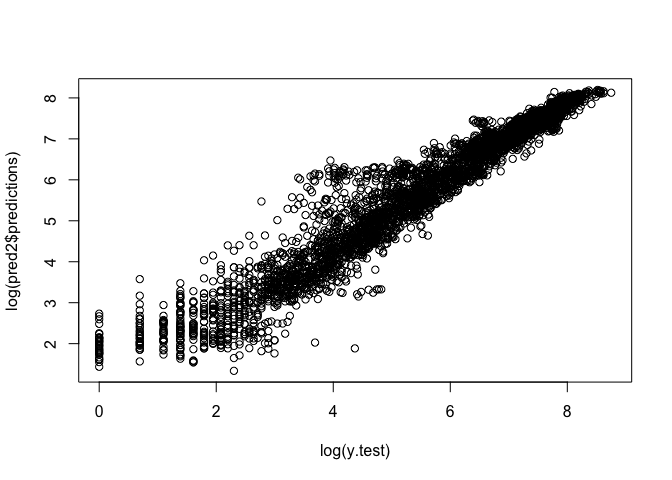
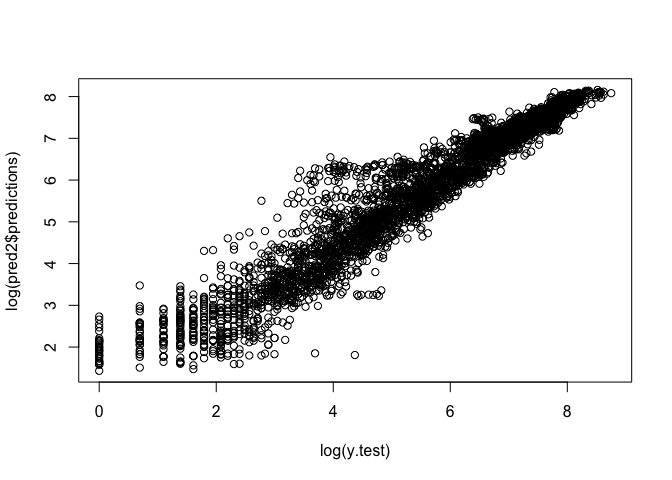
Add MAE and comparison plots

diff --git a/01_black-box.md b/01_black-box.md
@@ -29,7 +29,7 @@ Could include:
 
 ``` r
 metadata = c("Date_Time", "Sensor_Name", "Time", "Day")
-nlag = 3
+nlag = 4
 
 data.ts = raw.ts %>%
   dplyr::select(metadata, Hourly_Counts) %>%
@@ -53,11 +53,13 @@ locs = setdiff(colnames(data.ts), metadata)
 lags = list()
 for (i in 1:nlag) {
   lags[[i]] = data.ts %>%
-    select(-one_of(metadata)) %>%
+    dplyr::select(-one_of(metadata)) %>%
     mutate_all(function (x) lead(x, i)) %>%
     rename_all(function(x) paste0(x,".lag", i))
 }
 ```
+
+    ## Warning: Unknown columns: `Sensor_Name`
 
     ## Warning: Unknown columns: `Sensor_Name`
 
@@ -81,32 +83,26 @@ for (j in 1:nloc) {
 X = do.call(rbind, X) %>%
   drop_na() %>%
   arrange(Date_Time)
+names(X) = make.names(names(X))
 X %>% head %>% kable
 ```
 
-|  Hourly\_Counts|  Day|  Time| Date\_Time | Sensor\_Name               |  Australia on Collins.lag1|  Bourke Street Mall (North).lag1|  Bourke Street Mall (South).lag1|  Collins Place (North).lag1|  Collins Place (South).lag1|  Flagstaff Station.lag1|  Flinders Street Station Underpass.lag1|  Melbourne Central.lag1|  New Quay.lag1|  Australia on Collins.lag2|  Bourke Street Mall (North).lag2|  Bourke Street Mall (South).lag2|  Collins Place (North).lag2|  Collins Place (South).lag2|  Flagstaff Station.lag2|  Flinders Street Station Underpass.lag2|  Melbourne Central.lag2|  New Quay.lag2|  Australia on Collins.lag3|  Bourke Street Mall (North).lag3|  Bourke Street Mall (South).lag3|  Collins Place (North).lag3|  Collins Place (South).lag3|  Flagstaff Station.lag3|  Flinders Street Station Underpass.lag3|  Melbourne Central.lag3|  New Quay.lag3|
-|---------------:|----:|-----:|:-----------|:---------------------------|--------------------------:|--------------------------------:|--------------------------------:|---------------------------:|---------------------------:|-----------------------:|---------------------------------------:|-----------------------:|--------------:|--------------------------:|--------------------------------:|--------------------------------:|---------------------------:|---------------------------:|-----------------------:|---------------------------------------:|-----------------------:|--------------:|--------------------------:|--------------------------------:|--------------------------------:|---------------------------:|---------------------------:|-----------------------:|---------------------------------------:|-----------------------:|--------------:|
-|              45|    5|     0| 2009-05-21 | Australia on Collins       |                         10|                               18|                               15|                           8|                          23|                       5|                                      52|                     118|              3|                          8|                                7|                                9|                           3|                           9|                       3|                                      30|                      64|              4|                          5|                               10|                               18|                           1|                          19|                      18|                                      20|                      32|              5|
-|              27|    5|     0| 2009-05-21 | Bourke Street Mall (North) |                         10|                               18|                               15|                           8|                          23|                       5|                                      52|                     118|              3|                          8|                                7|                                9|                           3|                           9|                       3|                                      30|                      64|              4|                          5|                               10|                               18|                           1|                          19|                      18|                                      20|                      32|              5|
-|              40|    5|     0| 2009-05-21 | Bourke Street Mall (South) |                         10|                               18|                               15|                           8|                          23|                       5|                                      52|                     118|              3|                          8|                                7|                                9|                           3|                           9|                       3|                                      30|                      64|              4|                          5|                               10|                               18|                           1|                          19|                      18|                                      20|                      32|              5|
-|               8|    5|     0| 2009-05-21 | Collins Place (North)      |                         10|                               18|                               15|                           8|                          23|                       5|                                      52|                     118|              3|                          8|                                7|                                9|                           3|                           9|                       3|                                      30|                      64|              4|                          5|                               10|                               18|                           1|                          19|                      18|                                      20|                      32|              5|
-|              39|    5|     0| 2009-05-21 | Collins Place (South)      |                         10|                               18|                               15|                           8|                          23|                       5|                                      52|                     118|              3|                          8|                                7|                                9|                           3|                           9|                       3|                                      30|                      64|              4|                          5|                               10|                               18|                           1|                          19|                      18|                                      20|                      32|              5|
-|              10|    5|     0| 2009-05-21 | Flagstaff Station          |                         10|                               18|                               15|                           8|                          23|                       5|                                      52|                     118|              3|                          8|                                7|                                9|                           3|                           9|                       3|                                      30|                      64|              4|                          5|                               10|                               18|                           1|                          19|                      18|                                      20|                      32|              5|
+|  Hourly\_Counts|  Day|  Time| Date\_Time | Sensor\_Name               |  Australia.on.Collins.lag1|  Bourke.Street.Mall..North..lag1|  Bourke.Street.Mall..South..lag1|  Collins.Place..North..lag1|  Collins.Place..South..lag1|  Flagstaff.Station.lag1|  Flinders.Street.Station.Underpass.lag1|  Melbourne.Central.lag1|  New.Quay.lag1|  Australia.on.Collins.lag2|  Bourke.Street.Mall..North..lag2|  Bourke.Street.Mall..South..lag2|  Collins.Place..North..lag2|  Collins.Place..South..lag2|  Flagstaff.Station.lag2|  Flinders.Street.Station.Underpass.lag2|  Melbourne.Central.lag2|  New.Quay.lag2|  Australia.on.Collins.lag3|  Bourke.Street.Mall..North..lag3|  Bourke.Street.Mall..South..lag3|  Collins.Place..North..lag3|  Collins.Place..South..lag3|  Flagstaff.Station.lag3|  Flinders.Street.Station.Underpass.lag3|  Melbourne.Central.lag3|  New.Quay.lag3|  Australia.on.Collins.lag4|  Bourke.Street.Mall..North..lag4|  Bourke.Street.Mall..South..lag4|  Collins.Place..North..lag4|  Collins.Place..South..lag4|  Flagstaff.Station.lag4|  Flinders.Street.Station.Underpass.lag4|  Melbourne.Central.lag4|  New.Quay.lag4|
+|---------------:|----:|-----:|:-----------|:---------------------------|--------------------------:|--------------------------------:|--------------------------------:|---------------------------:|---------------------------:|-----------------------:|---------------------------------------:|-----------------------:|--------------:|--------------------------:|--------------------------------:|--------------------------------:|---------------------------:|---------------------------:|-----------------------:|---------------------------------------:|-----------------------:|--------------:|--------------------------:|--------------------------------:|--------------------------------:|---------------------------:|---------------------------:|-----------------------:|---------------------------------------:|-----------------------:|--------------:|--------------------------:|--------------------------------:|--------------------------------:|---------------------------:|---------------------------:|-----------------------:|---------------------------------------:|-----------------------:|--------------:|
+|              45|    5|     0| 2009-05-21 | Australia on Collins       |                         10|                               18|                               15|                           8|                          23|                       5|                                      52|                     118|              3|                          8|                                7|                                9|                           3|                           9|                       3|                                      30|                      64|              4|                          5|                               10|                               18|                           1|                          19|                      18|                                      20|                      32|              5|                         11|                               22|                                8|                           1|                          13|                      10|                                      67|                      43|              0|
+|              27|    5|     0| 2009-05-21 | Bourke Street Mall (North) |                         10|                               18|                               15|                           8|                          23|                       5|                                      52|                     118|              3|                          8|                                7|                                9|                           3|                           9|                       3|                                      30|                      64|              4|                          5|                               10|                               18|                           1|                          19|                      18|                                      20|                      32|              5|                         11|                               22|                                8|                           1|                          13|                      10|                                      67|                      43|              0|
+|              40|    5|     0| 2009-05-21 | Bourke Street Mall (South) |                         10|                               18|                               15|                           8|                          23|                       5|                                      52|                     118|              3|                          8|                                7|                                9|                           3|                           9|                       3|                                      30|                      64|              4|                          5|                               10|                               18|                           1|                          19|                      18|                                      20|                      32|              5|                         11|                               22|                                8|                           1|                          13|                      10|                                      67|                      43|              0|
+|               8|    5|     0| 2009-05-21 | Collins Place (North)      |                         10|                               18|                               15|                           8|                          23|                       5|                                      52|                     118|              3|                          8|                                7|                                9|                           3|                           9|                       3|                                      30|                      64|              4|                          5|                               10|                               18|                           1|                          19|                      18|                                      20|                      32|              5|                         11|                               22|                                8|                           1|                          13|                      10|                                      67|                      43|              0|
+|              39|    5|     0| 2009-05-21 | Collins Place (South)      |                         10|                               18|                               15|                           8|                          23|                       5|                                      52|                     118|              3|                          8|                                7|                                9|                           3|                           9|                       3|                                      30|                      64|              4|                          5|                               10|                               18|                           1|                          19|                      18|                                      20|                      32|              5|                         11|                               22|                                8|                           1|                          13|                      10|                                      67|                      43|              0|
+|              10|    5|     0| 2009-05-21 | Flagstaff Station          |                         10|                               18|                               15|                           8|                          23|                       5|                                      52|                     118|              3|                          8|                                7|                                9|                           3|                           9|                       3|                                      30|                      64|              4|                          5|                               10|                               18|                           1|                          19|                      18|                                      20|                      32|              5|                         11|                               22|                                8|                           1|                          13|                      10|                                      67|                      43|              0|
 
-Test RF
--------
-
-``` r
-library(ranger)
-```
-
-    ## Warning: package 'ranger' was built under R version 3.4.4
+Test RF on train/test split
+---------------------------
 
 ``` r
-names(X) = make.names(names(X))
-n.test = round(nrow(X)) * 0.2
-X.train = X %>% head(nrow(X) - n.test)
-X.test = X %>% tail(n.test)
+frac=0.8
+X.train = head(X, round(nrow(X)*frac))
+X.test = tail(X, round(nrow(X)*(1-frac)))
 y.test = X.test %>% pull(Hourly_Counts)
 ```
 
@@ -114,6 +110,11 @@ Exclude the time and weekday from the model. Purely regressed on lags from the p
 
 ``` r
 rf <- ranger(Hourly_Counts ~ . -Time -Day -Date_Time, data=X.train)
+```
+
+    ## Growing trees.. Progress: 92%. Estimated remaining time: 2 seconds.
+
+``` r
 pred <- predict(rf, X.test)
 X.test$pred = pred$predictions
 plot(y.test, pred$predictions)
@@ -128,25 +129,52 @@ plot(log(y.test), log(pred$predictions))
 ![](01_black-box_files/figure-markdown_github/unnamed-chunk-4-2.png)
 
 ``` r
-cat("RMSE", sqrt(sum((y.test-pred$predictions)^2)))
+cat("RMSE", sqrt(mean((y.test-pred$predictions)^2)))
 ```
 
-    ## RMSE 16166.02
+    ## RMSE 277.2216
 
 ``` r
-ggplot(X.test, aes(x=Date_Time, y=Hourly_Counts)) +
-  geom_line(color="red") +
-  geom_line(aes(y=pred), color="blue") +
-  geom_line(data=X.train, aes(y=Hourly_Counts)) +
-  facet_grid(Sensor_Name~.)
+cat("MAE", mean(abs(y.test-pred$predictions)))
+```
+
+    ## MAE 160.272
+
+``` r
+plt.df.train = X.train %>%
+  dplyr::select(time=Date_Time, location=Sensor_Name, train=Hourly_Counts) %>%
+  gather(key="key", value="value", -time, -location)
+plt.df.test = X.test %>%
+  dplyr::select(time=Date_Time, location=Sensor_Name, obs=Hourly_Counts, fcst=pred) %>%
+  gather(key="key", value="value", -time, -location)
+plt.df = rbind(plt.df.train, plt.df.test)
+
+ggplot(plt.df %>% filter(location %in% levels(plt.df$location)[1:6]),
+       aes(x=time, y=value, color=key)) +
+  geom_line(alpha=0.5) +
+  facet_wrap(~location, ncol=1) +
+  ylim(0, NA)
 ```
 
 ![](01_black-box_files/figure-markdown_github/unnamed-chunk-4-3.png)
+
+``` r
+# ggplot(X.test, aes(x=Date_Time, y=Hourly_Counts)) +
+#   geom_line(color="red") +
+#   geom_line(aes(y=pred), color="blue") +
+#   geom_line(data=X.train, aes(y=Hourly_Counts)) +
+#   facet_wrap(~Sensor_Name, ncol=1)
+```
 
 Introduce time and weekday. Would expect it to improve.
 
 ``` r
 rf2 <- ranger(Hourly_Counts ~ . -Date_Time, data=X.train)
+```
+
+    ## Growing trees.. Progress: 89%. Estimated remaining time: 3 seconds.
+
+``` r
 pred2 <- predict(rf2, X.test)
 X.test$pred2 <- pred2$predictions
 plot(y.test, pred2$predictions)
@@ -161,10 +189,16 @@ plot(log(y.test), log(pred2$predictions))
 ![](01_black-box_files/figure-markdown_github/unnamed-chunk-5-2.png)
 
 ``` r
-cat("RMSE:", sqrt(sum((y.test-pred2$predictions)^2)))
+cat("RMSE:", sqrt(mean((y.test-pred2$predictions)^2)))
 ```
 
-    ## RMSE: 17021.3
+    ## RMSE: 290.6063
+
+``` r
+cat("MAE", mean(abs(y.test-pred2$predictions)))
+```
+
+    ## MAE 167.6095
 
 ``` r
 ggplot(X.test, aes(x=Date_Time, y=Hourly_Counts)) +
@@ -177,6 +211,16 @@ ggplot(X.test, aes(x=Date_Time, y=Hourly_Counts)) +
 ![](01_black-box_files/figure-markdown_github/unnamed-chunk-5-3.png)
 
 Early indications are good but needs proper model comparison. Comparison required against univariate TS is needed. Also needs to incorporate uncertainty.
+
+MAE / model evaluation
+----------------------
+
+``` r
+MAE = mean(abs(pred$predictions - y.test))
+MAE
+```
+
+    ## [1] 160.272
 
 Cross-correlation importance
 ----------------------------
@@ -209,8 +253,10 @@ for (s_n in Sensor_Names) {
 }
 ```
 
-![](01_black-box_files/figure-markdown_github/unnamed-chunk-7-1.png)![](01_black-box_files/figure-markdown_github/unnamed-chunk-7-2.png)![](01_black-box_files/figure-markdown_github/unnamed-chunk-7-3.png)![](01_black-box_files/figure-markdown_github/unnamed-chunk-7-4.png)![](01_black-box_files/figure-markdown_github/unnamed-chunk-7-5.png)![](01_black-box_files/figure-markdown_github/unnamed-chunk-7-6.png)![](01_black-box_files/figure-markdown_github/unnamed-chunk-7-7.png)![](01_black-box_files/figure-markdown_github/unnamed-chunk-7-8.png)
+![](01_black-box_files/figure-markdown_github/unnamed-chunk-8-1.png)![](01_black-box_files/figure-markdown_github/unnamed-chunk-8-2.png)![](01_black-box_files/figure-markdown_github/unnamed-chunk-8-3.png)![](01_black-box_files/figure-markdown_github/unnamed-chunk-8-4.png)![](01_black-box_files/figure-markdown_github/unnamed-chunk-8-5.png)![](01_black-box_files/figure-markdown_github/unnamed-chunk-8-6.png)![](01_black-box_files/figure-markdown_github/unnamed-chunk-8-7.png)![](01_black-box_files/figure-markdown_github/unnamed-chunk-8-8.png)
+
+Permutation feature importance: Determines the marginal impact on performance compared to when one feature is randomised (permuted).
 
 ``` r
-importance_pvalues(rfs[[1]], "altmann", formula=formula("Hourly_Counts ~ . - Sensor_Name - Date_Time"), data=x[[s_n]])
+importance_pvalues(rfs[[1]], "altmann", formula=formula("Hourly_Counts ~ . - Sensor_Name - Date_Time"), data=x[[s_n]], num.permutations=10)
 ```

diff --git a/03_vector_auto_regression.md b/03_vector_auto_regression.md
@@ -16,7 +16,7 @@ Process TS data
 ---------------
 
 ``` r
-data.ts = raw.ts %>%
+X = raw.ts %>%
   dplyr::select(-ID) %>%
   dplyr::select(Date_Time, Sensor_Name, Hourly_Counts) %>%
   spread(key=Sensor_Name, value=Hourly_Counts) %>%
@@ -24,7 +24,7 @@ data.ts = raw.ts %>%
   as.zoo %>%
   na.contiguous # analysis does not include missing data
   # stcenter# %>%
-names(data.ts) = make.names(names(data.ts))
+names(X) = make.names(names(X))
 ```
 
 Perform differencing
@@ -33,8 +33,8 @@ Perform differencing
 Confirm that each sensor series is stationary as we would expect
 
 ``` r
-for (i in seq_along(colnames(data.ts))) {
-  print(ndiffs(data.ts[,i], test="adf"))
+for (i in seq_along(colnames(X))) {
+  print(ndiffs(X[,i], test="adf"))
 }
 ```
 
@@ -59,23 +59,88 @@ for (i in seq_along(colnames(data.ts))) {
 Test to perform seasonal differencing. Weekly differencing only seems to give the best PACF plot.
 
 ``` r
-data.diff = data.ts %>%
+data.diff = X %>%
   diff(lag=168)
 plot(data.diff[,2])
+```
+
+![](03_vector_auto_regression_files/figure-markdown_github/unnamed-chunk-4-1.png)
+
+``` r
 pacf(data.diff[,2])
 ```
+
+![](03_vector_auto_regression_files/figure-markdown_github/unnamed-chunk-4-2.png)
+
+Test for cointegration (causality).
+
+``` r
+jotest=ca.jo(data.diff[,1:3], type="trace", K=2, ecdet="none", spec="longrun")
+summary(jotest)
+```
+
+    ## 
+    ## ###################### 
+    ## # Johansen-Procedure # 
+    ## ###################### 
+    ## 
+    ## Test type: trace statistic , with linear trend 
+    ## 
+    ## Eigenvalues (lambda):
+    ## [1] 0.14460533 0.11435648 0.06690293
+    ## 
+    ## Values of teststatistic and critical values of test:
+    ## 
+    ##            test 10pct  5pct  1pct
+    ## r <= 2 | 162.31  6.50  8.18 11.65
+    ## r <= 1 | 446.97 15.66 17.95 23.52
+    ## r = 0  | 813.08 28.71 31.52 37.22
+    ## 
+    ## Eigenvectors, normalised to first column:
+    ## (These are the cointegration relations)
+    ## 
+    ##                               Australia.on.Collins.l2
+    ## Australia.on.Collins.l2                     1.0000000
+    ## Bourke.Street.Mall..North..l2              -0.5255953
+    ## Bourke.Street.Mall..South..l2              -0.4846191
+    ##                               Bourke.Street.Mall..North..l2
+    ## Australia.on.Collins.l2                           1.0000000
+    ## Bourke.Street.Mall..North..l2                     0.2126367
+    ## Bourke.Street.Mall..South..l2                     0.1486375
+    ##                               Bourke.Street.Mall..South..l2
+    ## Australia.on.Collins.l2                             1.00000
+    ## Bourke.Street.Mall..North..l2                     -17.43181
+    ## Bourke.Street.Mall..South..l2                      18.42751
+    ## 
+    ## Weights W:
+    ## (This is the loading matrix)
+    ## 
+    ##                              Australia.on.Collins.l2
+    ## Australia.on.Collins.d                    -0.0783956
+    ## Bourke.Street.Mall..North..d               0.3151664
+    ## Bourke.Street.Mall..South..d               0.2847123
+    ##                              Bourke.Street.Mall..North..l2
+    ## Australia.on.Collins.d                          -0.2121899
+    ## Bourke.Street.Mall..North..d                    -0.1699760
+    ## Bourke.Street.Mall..South..d                    -0.1619121
+    ##                              Bourke.Street.Mall..South..l2
+    ## Australia.on.Collins.d                        0.0001602198
+    ## Bourke.Street.Mall..North..d                  0.0037680025
+    ## Bourke.Street.Mall..South..d                 -0.0051508124
+
+Above is an example of the Johansen co-integration test, using just three series instead of the entire matrix. The *r* test statistics reject the null hypothesis that the series are not co-integrated.
 
 Split into train/test sets. Later this can turn into a rolling train/test.
 
 ``` r
 frac = 0.8
-X.train = head(data.ts, round(nrow(data.ts)*frac))
-X.test = tail(data.ts, round(nrow(data.ts)*(1-frac)))
+X.train = head(X, round(nrow(X)*frac))
+X.test = tail(X, round(nrow(X)*(1-frac)))
 plot(X.train)
 title("Original series")
 ```
 
-![](03_vector_auto_regression_files/figure-markdown_github/unnamed-chunk-5-1.png)
+![](03_vector_auto_regression_files/figure-markdown_github/unnamed-chunk-6-1.png)
 
 ``` r
 X.train.diff = X.train %>%
@@ -84,7 +149,7 @@ plot(X.train.diff)
 title("Seasonally differenced series")
 ```
 
-![](03_vector_auto_regression_files/figure-markdown_github/unnamed-chunk-5-2.png)
+![](03_vector_auto_regression_files/figure-markdown_github/unnamed-chunk-6-2.png)
 
 Perform vector autoregression. Assume the moving average component is not necessary because the series is stationary. [Useful link](https://stats.stackexchange.com/questions/191851/var-forecasting-methodology)
 
@@ -171,7 +236,7 @@ ggplot(X.all %>% filter(location %in% levels(X.all$location)[1:6]),
   ylim(0, NA)
 ```
 
-![](03_vector_auto_regression_files/figure-markdown_github/unnamed-chunk-8-1.png)
+![](03_vector_auto_regression_files/figure-markdown_github/unnamed-chunk-9-1.png)
 
 Error quantification
 
@@ -181,7 +246,7 @@ MAE = X.obs.all %>%
   dplyr::select(time, location, value.obs, value.fcst) %>%
   mutate(AE = abs(value.obs-value.fcst)) %>%
   pull(AE) %>%
-  mean()
+  mean
 MAE
 ```
 
@@ -208,9 +273,9 @@ arfcst = sapply(names(arfcst), function(N) diffinv(arfcst[,N],
 plot(X.fcst.all$value, arfcst$value)
 ```
 
-![](03_vector_auto_regression_files/figure-markdown_github/unnamed-chunk-10-1.png)
+![](03_vector_auto_regression_files/figure-markdown_github/unnamed-chunk-11-1.png)
 
-Unlike a univariate AR(1) model, the VAR allows some forecasts to go to zero.
+Unlike a univariate AR(1) model, this particular VAR prediction contains negative values.
 
 ``` r
 X.all = X.train.all %>% rbind(X.obs.all) %>% rbind(arfcst) %>%
@@ -223,7 +288,7 @@ ggplot(X.all %>% filter(location %in% levels(X.all$location)[1:6]),
   ylim(0, NA)
 ```
 
-![](03_vector_auto_regression_files/figure-markdown_github/unnamed-chunk-11-1.png)
+![](03_vector_auto_regression_files/figure-markdown_github/unnamed-chunk-12-1.png)
 
 ``` r
 MAE = X.obs.all %>%
